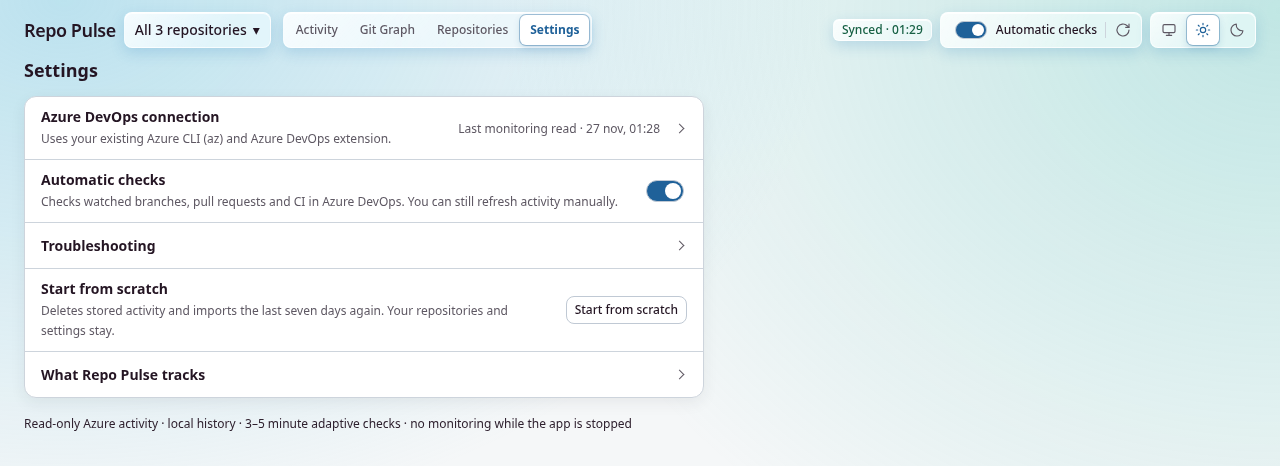
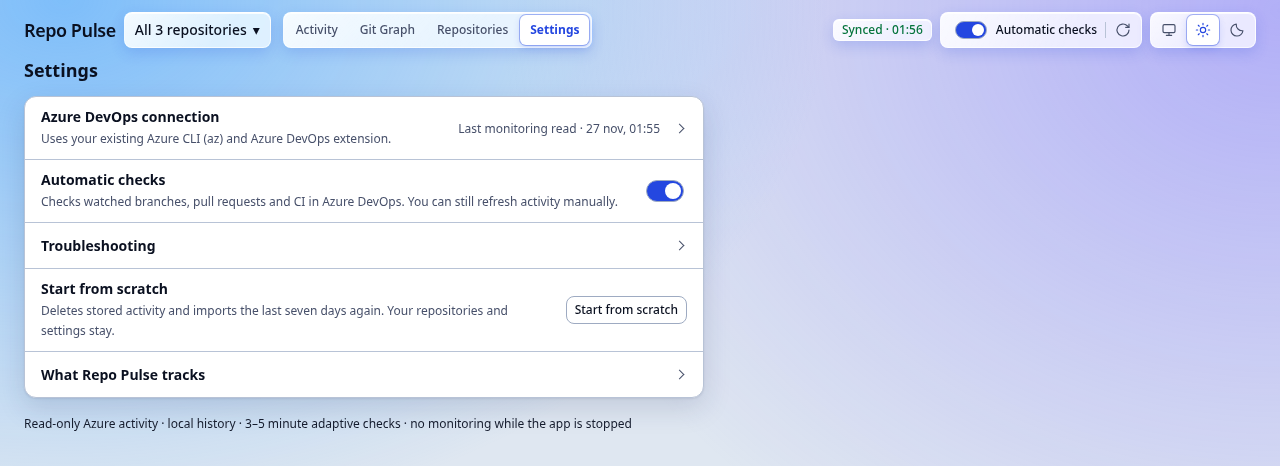
Give the light theme dark mode's contrast
Light mode used muted accents on a near-white canvas, so status, lanes and unread rows read far weaker than in dark mode. The light tokens now use a saturated palette on a deeper canvas, and Activity status labels are tinted pills. The status column is wider in both themes so the longest pill stays on one line.

diff --git a/web/styles/tokens.css b/web/styles/tokens.css
@@ -6,48 +6,48 @@
   --control-height-sm: 28px;
   --font-sans: -apple-system, BlinkMacSystemFont, 'Inter Variable', 'Segoe UI', system-ui, sans-serif;
   --font-mono: ui-monospace, 'SF Mono', 'SFMono-Regular', Menlo, Consolas, 'Liberation Mono', monospace;
-  --background: #f5f7f8;
-  --foreground: #241523;
+  --background: #dfe7f1;
+  --foreground: #0a1020;
   --card: #fff;
-  --muted: #edf2f6;
-  --table-head: #f4f7fa;
-  --muted-foreground: #5e5863;
+  --muted: #e9eef6;
+  --table-head: #eef2f9;
+  --muted-foreground: #47506a;
   /* Between foreground and muted: text that supports a title without competing with it. Resolves per theme. */
   --foreground-soft: color-mix(in oklab, var(--foreground) 80%, var(--muted-foreground));
-  --accent: #eaf2f8;
-  --border: #cdd4dc;
-  --input: #c0c9d4;
-  --primary: #1f6199;
+  --accent: #e4ecfb;
+  --border: #b8c3d6;
+  --input: #9eabc2;
+  --primary: #2447e0;
   --primary-foreground: #fff;
-  --critical: #b42318;
-  --warning: #825416;
-  --ok: #176044;
+  --critical: #c40f25;
+  --warning: #aa4309;
+  --ok: #06743d;
   --critical-solid: oklch(63.7% 0.237 25.331);
   --warning-solid: oklch(76.9% 0.188 70.08);
   --ok-solid: oklch(69.6% 0.17 162.48);
-  --critical-wash: color-mix(in oklab, var(--critical-solid) 7%, transparent);
-  --warning-wash: color-mix(in oklab, var(--warning-solid) 7%, transparent);
-  --ok-wash: color-mix(in oklab, var(--ok-solid) 7%, transparent);
-  /* Unseen updates and new branches use a subtle primary tint. */
-  --primary-wash: color-mix(in oklab, var(--primary) 7%, transparent);
+  --critical-wash: color-mix(in oklab, var(--critical-solid) 14%, transparent);
+  --warning-wash: color-mix(in oklab, var(--warning-solid) 16%, transparent);
+  --ok-wash: color-mix(in oklab, var(--ok-solid) 14%, transparent);
+  /* Unseen updates and new branches use a primary tint. */
+  --primary-wash: color-mix(in oklab, var(--primary) 11%, transparent);
   --shadow-sm: 0 1px 3px 0 rgb(0 0 0 / 0.1), 0 1px 2px -1px rgb(0 0 0 / 0.1);
   --shadow-lg: 0 10px 15px -3px rgb(0 0 0 / 0.1), 0 4px 6px -4px rgb(0 0 0 / 0.1);
   --sky:
-    radial-gradient(ellipse 65% 55% at 5% 0%, #77c9e373, transparent 92%),
-    radial-gradient(ellipse 70% 70% at 100% 1%, #5cc7be57, transparent 87%),
-    radial-gradient(ellipse 75% 52% at 80% 106%, #3384bd38, transparent 88%);
+    radial-gradient(ellipse 65% 55% at 5% 0%, #4aa8ffa6, transparent 92%),
+    radial-gradient(ellipse 70% 70% at 100% 1%, #7b6bff73, transparent 87%),
+    radial-gradient(ellipse 75% 52% at 80% 106%, #1fb8c966, transparent 88%);
   --stars: none;
   --info: var(--primary);
-  --merged: #0f7b5f;
-  --approved: #0a6c9c;
+  --merged: #06743d;
+  --approved: #0a6c7e;
   --neutral-solid: color-mix(in oklab, var(--muted-foreground) 60%, transparent);
   /* Branch lanes in the Activity tree. Each keeps at least 4.5:1 against the card in its theme. */
-  --lane-1: #1f6199;
-  --lane-2: #0f766e;
-  --lane-3: #a2476b;
-  --lane-4: #68479a;
-  --lane-5: #95481d;
-  --lane-6: #48723f;
+  --lane-1: #2447e0;
+  --lane-2: #0a7269;
+  --lane-3: #c2255c;
+  --lane-4: #7a34e0;
+  --lane-5: #b53a0a;
+  --lane-6: #26742a;
 }
 @media (max-width: 767px) {
   :root {
@@ -151,10 +151,10 @@ body::after {
 @supports (backdrop-filter: blur(1px)) or (-webkit-backdrop-filter: blur(1px)) {
   :root:not(.dark) {
     --chrome-sheen: linear-gradient(132deg, #ffffffb3, transparent 66%);
-    --chrome-fill: #ffffff86;
+    --chrome-fill: #ffffffb8;
     --chrome-filter: blur(20px) saturate(1.35);
     --chrome-rim: #fff #ffffffb3 #ffffffb3;
-    --chrome-shadow: inset 0 1px 0 #ffffffcf, 0 5px 14px #3384bd38;
+    --chrome-shadow: inset 0 1px 0 #ffffffcf, 0 5px 14px #2447e02e;
     --active-filter-fill: color-mix(in srgb, var(--primary) 12%, var(--chrome-fill));
   }
   :root:not(.dark)

diff --git a/e2e/ui.test.ts b/e2e/ui.test.ts
@@ -156,7 +156,7 @@ test('approved light/dark/System UI and responsive routes work without remote tr
   await page.screenshot({ path: 'test-results/app-phone-light.png', fullPage: true });
 });
 
-test('Ocean uses the selected light palette with glass chrome and an opaque Activity feed', async t => {
+test('Light uses the vivid palette with glass chrome, status pills and an opaque Activity feed', async t => {
   const { page } = await setup(t);
   const palette = await page.locator('html').evaluate(root => {
     const style = getComputedStyle(root);
@@ -164,7 +164,10 @@ test('Ocean uses the selected light palette with glass chrome and an opaque Acti
       style.getPropertyValue(`--${name}`).trim(),
     );
   });
-  assert.deepEqual(palette, ['#f5f7f8', '#241523', '#5e5863', '#1f6199', '#cdd4dc', '#c0c9d4', '#1f6199', '#0f766e', '#a2476b']);
+  assert.deepEqual(palette, ['#dfe7f1', '#0a1020', '#47506a', '#2447e0', '#b8c3d6', '#9eabc2', '#2447e0', '#0a7269', '#c2255c']);
+  const pill = page.locator('.feed .kind.crit .kind-label').first();
+  await expect(pill).toHaveCSS('font-weight', '600');
+  await expect(pill).toHaveCSS('background-color', /^color\(srgb 0\.97\d* 0\.88\d* 0\.89\d*\)$/);
   await page.getByRole('button', { name: 'Save filter…' }).click();
   const save = page.getByRole('dialog').getByRole('button', { name: 'Save', exact: true });
   await save.hover();
@@ -190,9 +193,9 @@ test('Ocean uses the selected light palette with glass chrome and an opaque Acti
   const counts = await summary.locator('.cells').boundingBox();
   assert.ok(headline && counts && counts.y >= headline.y + headline.height, 'Counts sit below the headline on desktop');
   const backdrop = await page.locator('body').evaluate(body => getComputedStyle(body, '::before').backgroundImage);
-  assert.match(backdrop, /119, 201, 227/);
-  assert.match(backdrop, /92, 199, 190/);
-  assert.match(backdrop, /51, 132, 189/);
+  assert.match(backdrop, /74, 168, 255/);
+  assert.match(backdrop, /123, 107, 255/);
+  assert.match(backdrop, /31, 184, 201/);
   await expect(summary).toHaveCSS('backdrop-filter', 'blur(20px) saturate(1.35)');
   await expect(summary).toHaveCSS('border-top-color', 'rgb(255, 255, 255)');
   await expect(page.locator('.feed')).toHaveCSS('backdrop-filter', 'none');
@@ -1716,7 +1719,7 @@ test('semantic status colors match rows, imported history, details and trails in
   await page.locator('[data-event-id="color-completed"] .feed-title').click();
   await expect(page.locator('#page .status-chip')).toHaveClass(/\bok\b/);
   await expect(page.locator('#page .status-chip')).toHaveText('Merged');
-  await expect(page.locator('#page .status-chip')).toHaveCSS('color', 'rgb(15, 123, 95)');
+  await expect(page.locator('#page .status-chip')).toHaveCSS('color', 'rgb(6, 116, 61)');
 });
 
 test('the app-owned type dropdown is themed, keyboard accessible and stable during local polling', async t => {

diff --git a/web/styles/feed.css b/web/styles/feed.css
@@ -373,7 +373,7 @@ ol.rows {
   background-image: none;
 }
 :root:not(.dark) .feed .row.new:not(.crit, :hover, :focus-within) {
-  background-color: color-mix(in srgb, var(--primary) 4%, transparent);
+  background-color: color-mix(in srgb, var(--primary) 7%, transparent);
 }
 .row.new .title {
   font-weight: 600;
@@ -396,6 +396,16 @@ ol.rows {
 .kind-label {
   min-width: 0;
   overflow-wrap: anywhere;
+}
+/* Light mode carries status as a tinted pill, so the column reads at the strength dark mode gets from saturated text. */
+:root:not(.dark) .feed .kind-label {
+  padding: 0 8px;
+  border-radius: 10px;
+  font-weight: 600;
+  background: color-mix(in srgb, currentColor 12%, var(--card));
+}
+:root:not(.dark) .feed .row .title {
+  font-weight: 600;
 }
 .kind > .d,
 .kind > svg {
@@ -1046,7 +1056,7 @@ ol.rows {
 }
 @media (min-width: 1100px) {
   .row {
-    grid-template-columns: var(--kind-width, 8rem) minmax(0, 2fr) minmax(12rem, 1fr) 8.5rem;
+    grid-template-columns: var(--kind-width, 9.25rem) minmax(0, 2fr) minmax(12rem, 1fr) 8.5rem;
     padding-block: 10px;
   }
   .row > .kind {
@@ -1163,7 +1173,7 @@ ol.rows {
 @media (min-width: 1100px) {
   .rows.with-tree {
     --tree-label-y: 21px;
-    --kind-width: calc(8rem + var(--tree-width));
+    --kind-width: calc(9.25rem + var(--tree-width));
   }
   .with-tree .row {
     padding-inline-start: 12px;

diff --git a/web/styles/base.css b/web/styles/base.css
@@ -249,7 +249,9 @@ p {
   overflow: hidden;
 }
 :root:not(.dark) .card:not(.summary) {
-  box-shadow: 0 5px 15px #27253612;
+  box-shadow:
+    0 1px 2px #0a102014,
+    0 10px 28px #1b2a5c26;
 }
 .card-pad {
   padding: 16px;

diff --git a/README.md b/README.md
@@ -14,11 +14,11 @@ A local Azure DevOps activity feed for testers. Watch multiple repositories for 
 
 | Screen       | Light mode                                      | Dark mode                                     |
 | ------------ | ----------------------------------------------- | --------------------------------------------- |
-| Activity     | [Ocean](docs/screenshots/activity-light.png) | [Dark](docs/screenshots/activity-dark.png)     |
-| PR detail    | [Ocean](docs/screenshots/pr-detail-light.png) | [Dark](docs/screenshots/pr-detail-dark.png)    |
-| Git Graph    | [Ocean](docs/screenshots/git-graph-light.png) | [Dark](docs/screenshots/git-graph-dark.png)    |
-| Repositories | [Ocean](docs/screenshots/repositories-light.png) | [Dark](docs/screenshots/repositories-dark.png) |
-| Settings     | [Ocean](docs/screenshots/settings-light.png) | [Dark](docs/screenshots/settings-dark.png)    |
+| Activity     | [Light](docs/screenshots/activity-light.png) | [Dark](docs/screenshots/activity-dark.png)     |
+| PR detail    | [Light](docs/screenshots/pr-detail-light.png) | [Dark](docs/screenshots/pr-detail-dark.png)    |
+| Git Graph    | [Light](docs/screenshots/git-graph-light.png) | [Dark](docs/screenshots/git-graph-dark.png)    |
+| Repositories | [Light](docs/screenshots/repositories-light.png) | [Dark](docs/screenshots/repositories-dark.png) |
+| Settings     | [Light](docs/screenshots/settings-light.png) | [Dark](docs/screenshots/settings-dark.png)    |
 
 ## Run locally
 
